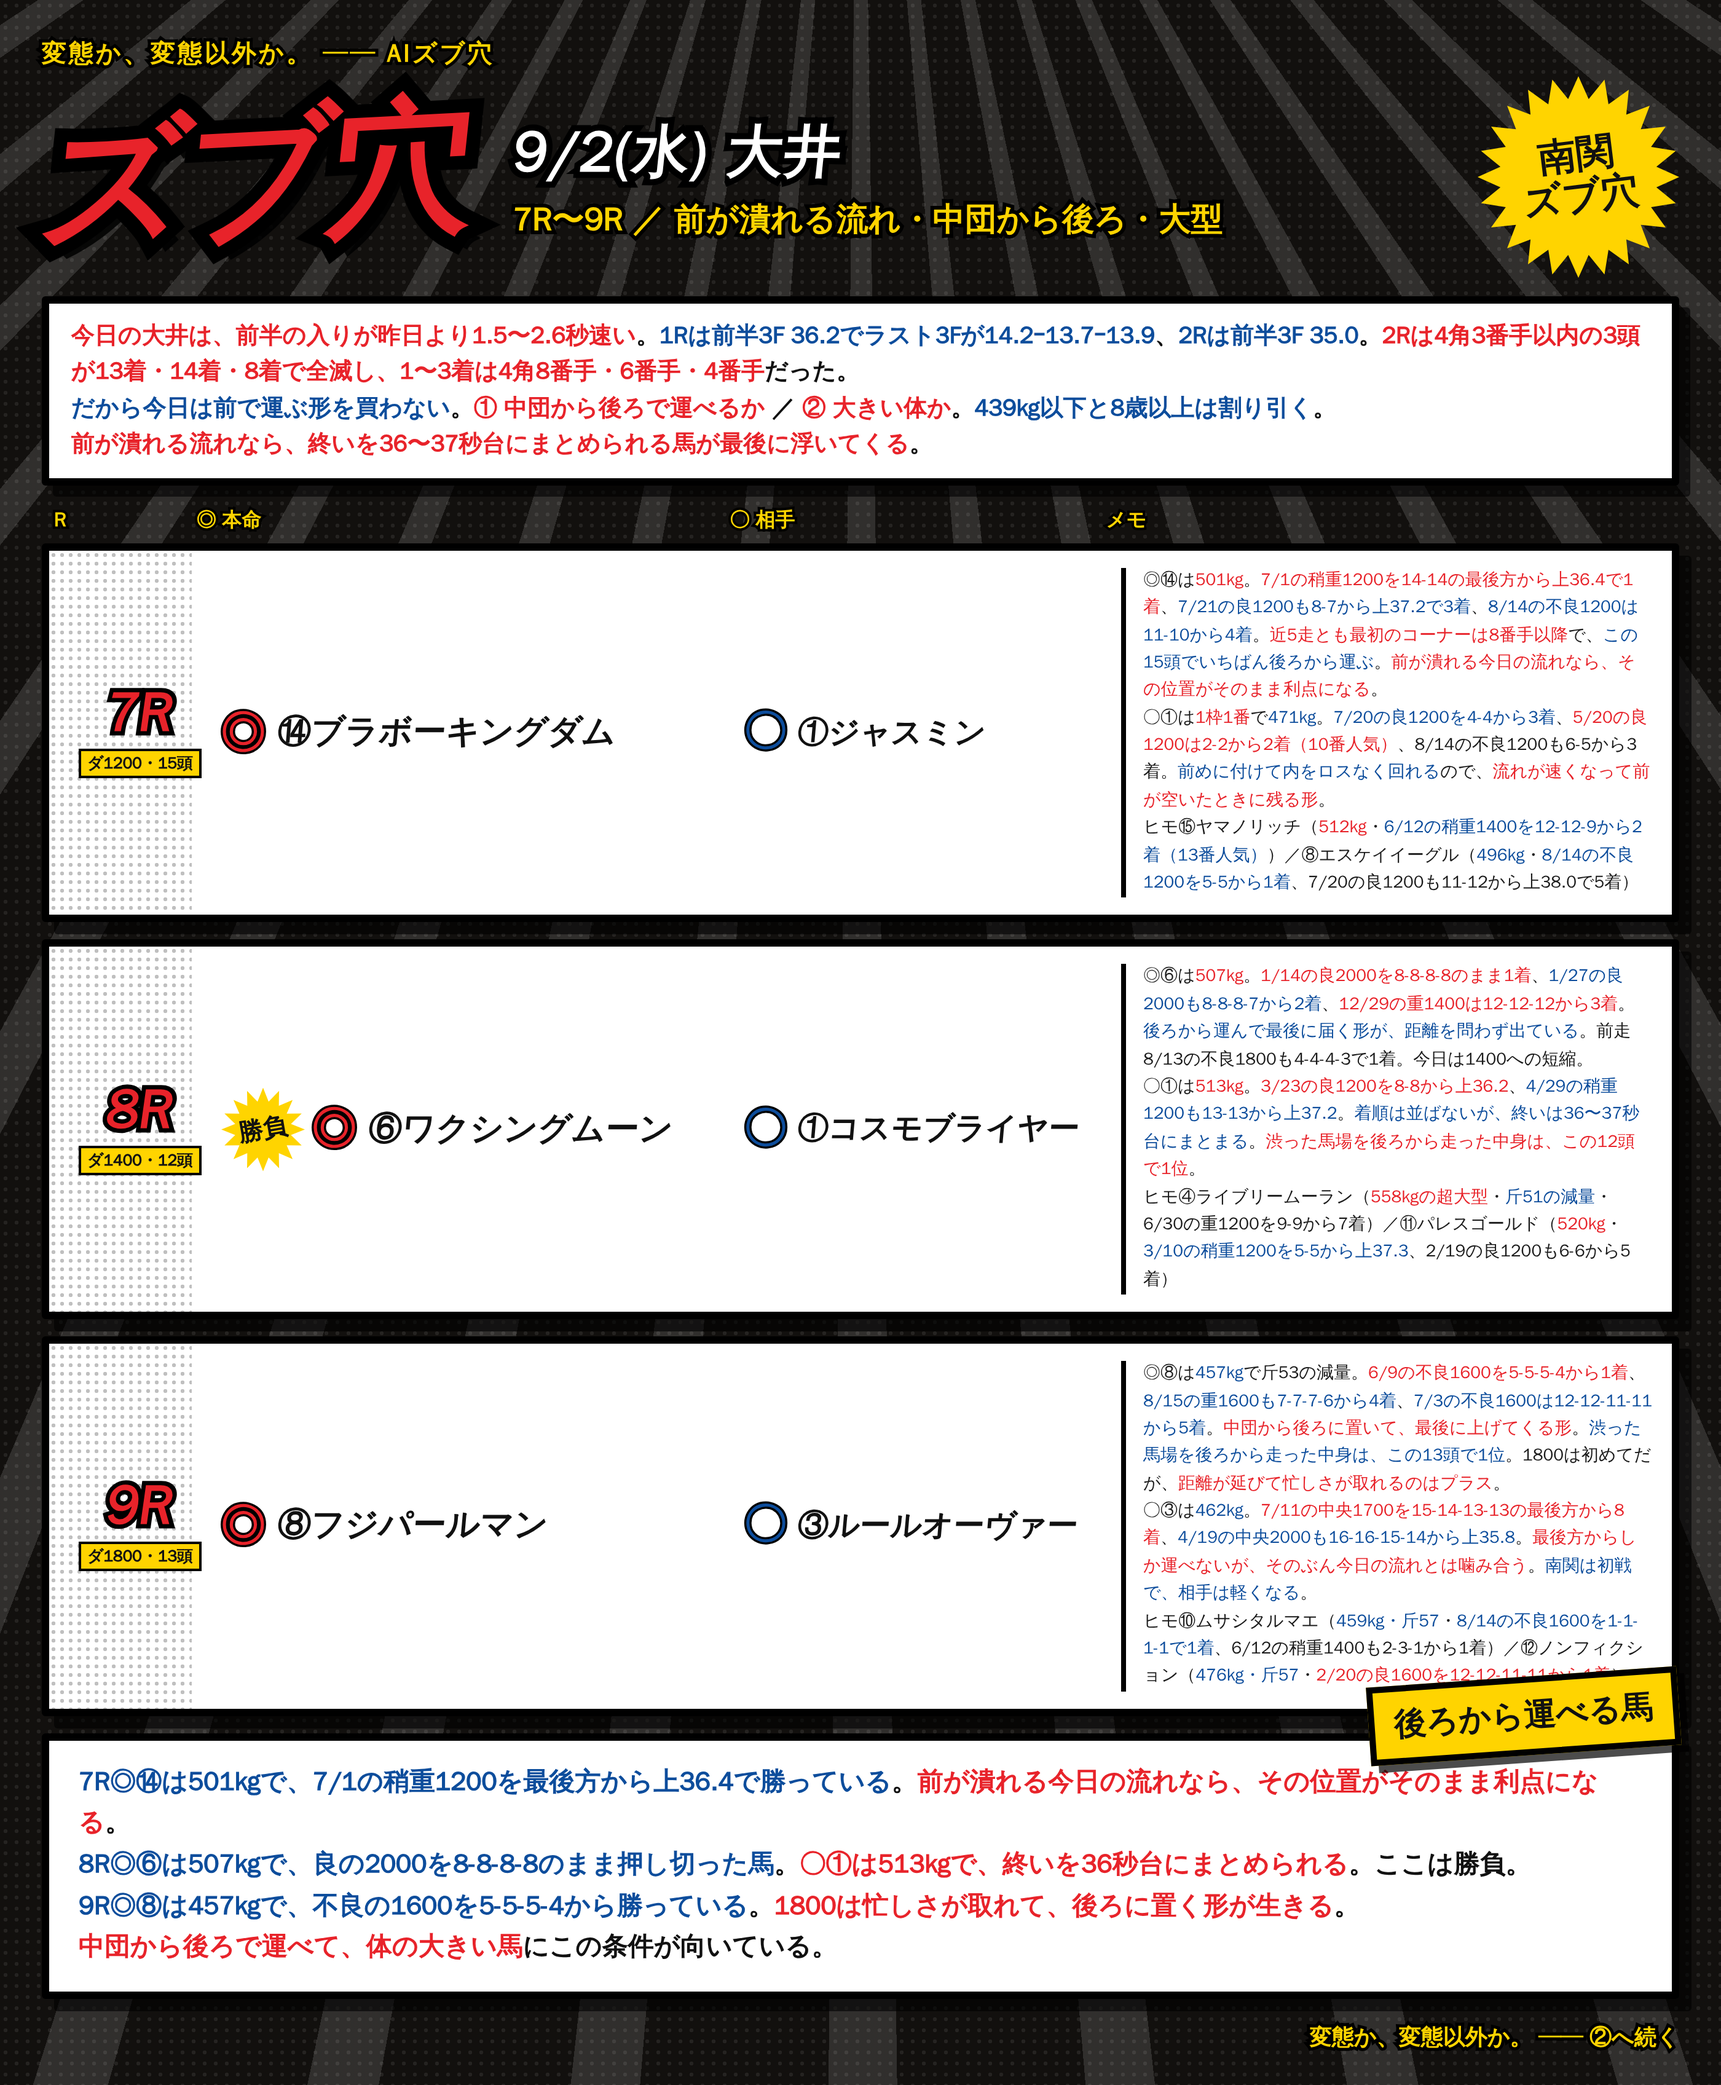
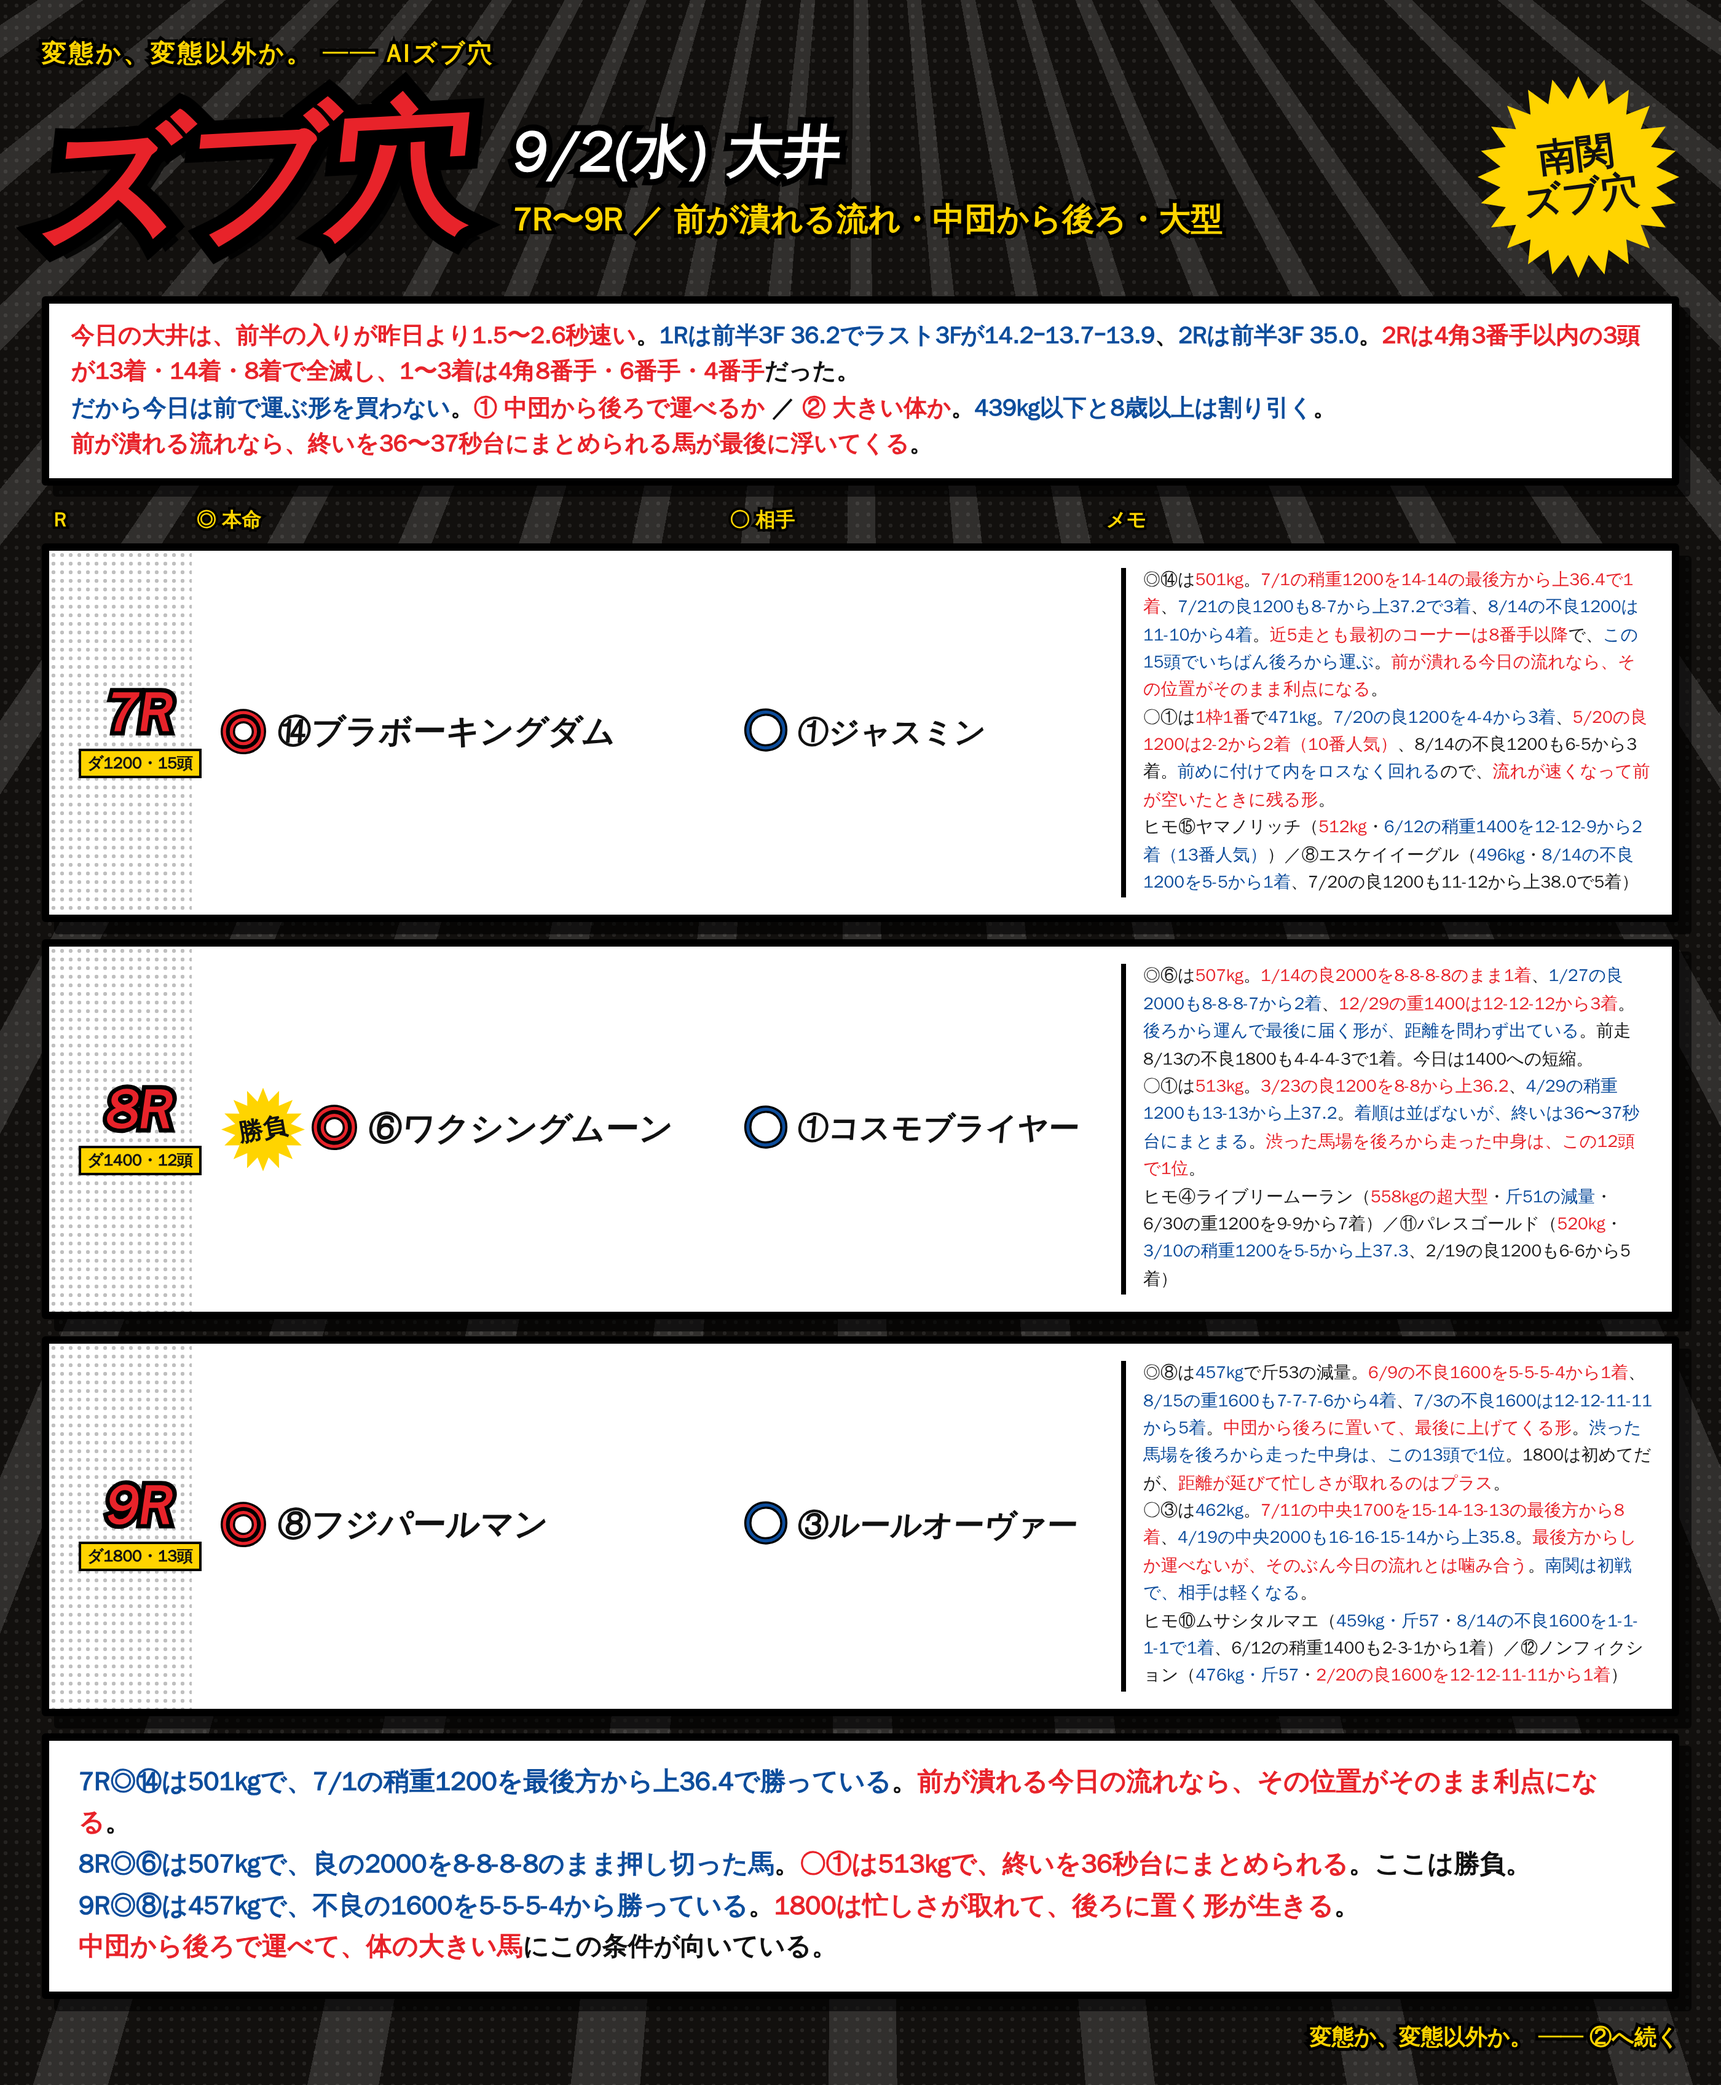
9/2 大井のカードから締めの黄色いタグを削除
Claude-Session: https://claude.ai/code/session_01RoHscZkr96FNaxQWvUqgEw

Changed region(s): [[0.7768, 0.7812, 0.9943, 0.875]]

diff --git a/notes/live/2026-09-02/oi_10_12.html b/notes/live/2026-09-02/oi_10_12.html
@@ -102,6 +102,6 @@
     <div class="at"><span class="mk2">○</span><span class="nm2">⑫ルソレイユ</span></div>
     <div class="memo">◎⑥は<b class='r'>530kg</b>。<b class='r'>8/13の不良1200を12-12の最後方から上36.8</b>、<b>7/21の良1200も9-9から上37.0</b>。<b>着順は並ばないが、終いは毎回36〜37秒台にまとまる</b>。昨年8/11の不良1200は7-5から2着、9/3の良1200も4-5から3着。<b class='r'>大きい体で後ろから運べる、今日の流れにいちばん当てはまる形</b>。<br>○⑫は<b class='r'>554kg</b>で、この12頭で最大の体。<b class='r'>8/17の稍重1000を8-8から上35.9</b>、<b>中央の1200では1-1から2着</b>もある。<b>前が止まる流れなら、大きい体で最後まで同じだけ伸びる</b>。<br>ヒモ①ニシノデフィレ（<b>495kg</b>・<b>8/17の稍重1000を5-5から3着</b>、7/21の良1200は12-12から上36.6）／⑨ルールメイプル（<b>476kg</b>・<b class='r'>近5走とも最初のコーナーで4〜6番手</b>・7/16の浦和800を5-4から3着）</div>
   </div>
-<div class="foot"><div class="yell">大きい体で、後ろから</div><span class="b">10R◎①は近5走で3勝、中団に置いても勝てている</span>。<span class="r">○⑨は502kgで、良の1400を4-4-4から2着している</span>。<br><span class="b">11R◎⑧は504kgで近5走が3勝と2着2回、着外がない</span>。<span class="r">○⑪は終いが毎回36秒台で、渋った馬場を後ろから走った中身が16頭で1位</span>。<br><span class="b">12R◎⑥は530kgで、不良の1200を最後方から上36.8</span>。<span class="r">○⑫は554kgでこの12頭で最大の体</span>。ここは勝負。<br><span class="r">前半3Fが36秒前後で流れ続けるなら</span>、<span class="b">中団から後ろで運べて、体の大きい馬</span>にこの条件が向いている。<br><span class="b">前半が緩んで38秒台に戻ったら、そこで前に戻す</span>。</div>
+<div class="foot"><span class="b">10R◎①は近5走で3勝、中団に置いても勝てている</span>。<span class="r">○⑨は502kgで、良の1400を4-4-4から2着している</span>。<br><span class="b">11R◎⑧は504kgで近5走が3勝と2着2回、着外がない</span>。<span class="r">○⑪は終いが毎回36秒台で、渋った馬場を後ろから走った中身が16頭で1位</span>。<br><span class="b">12R◎⑥は530kgで、不良の1200を最後方から上36.8</span>。<span class="r">○⑫は554kgでこの12頭で最大の体</span>。ここは勝負。<br><span class="r">前半3Fが36秒前後で流れ続けるなら</span>、<span class="b">中団から後ろで運べて、体の大きい馬</span>にこの条件が向いている。<br><span class="b">前半が緩んで38秒台に戻ったら、そこで前に戻す</span>。</div>
 <div class="sig">変態か、変態以外か。</div>
 </div></div></body></html>

diff --git a/notes/live/2026-09-02/oi_7_9.html b/notes/live/2026-09-02/oi_7_9.html
@@ -102,6 +102,6 @@
     <div class="at"><span class="mk2">○</span><span class="nm2">③ルールオーヴァー</span></div>
     <div class="memo">◎⑧は<b>457kg</b>で斤53の減量。<b class='r'>6/9の不良1600を5-5-5-4から1着</b>、<b>8/15の重1600も7-7-7-6から4着</b>、<b>7/3の不良1600は12-12-11-11から5着</b>。<b class='r'>中団から後ろに置いて、最後に上げてくる形</b>。<b>渋った馬場を後ろから走った中身は、この13頭で1位</b>。1800は初めてだが、<b class='r'>距離が延びて忙しさが取れるのはプラス</b>。<br>○③は<b>462kg</b>。<b class='r'>7/11の中央1700を15-14-13-13の最後方から8着</b>、<b>4/19の中央2000も16-16-15-14から上35.8</b>。<b class='r'>最後方からしか運べないが、そのぶん今日の流れとは噛み合う</b>。<b>南関は初戦で、相手は軽くなる</b>。<br>ヒモ⑩ムサシタルマエ（<b>459kg・斤57</b>・<b>8/14の不良1600を1-1-1-1で1着</b>、6/12の稍重1400も2-3-1から1着）／⑫ノンフィクション（<b>476kg・斤57</b>・<b class='r'>2/20の良1600を12-12-11-11から1着</b>）</div>
   </div>
-<div class="foot"><div class="yell">後ろから運べる馬</div><span class="b">7R◎⑭は501kgで、7/1の稍重1200を最後方から上36.4で勝っている</span>。<span class="r">前が潰れる今日の流れなら、その位置がそのまま利点になる</span>。<br><span class="b">8R◎⑥は507kgで、良の2000を8-8-8-8のまま押し切った馬</span>。<span class="r">○①は513kgで、終いを36秒台にまとめられる</span>。ここは勝負。<br><span class="b">9R◎⑧は457kgで、不良の1600を5-5-5-4から勝っている</span>。<span class="r">1800は忙しさが取れて、後ろに置く形が生きる</span>。<br><span class="r">中団から後ろで運べて、体の大きい馬</span>にこの条件が向いている。</div>
+<div class="foot"><span class="b">7R◎⑭は501kgで、7/1の稍重1200を最後方から上36.4で勝っている</span>。<span class="r">前が潰れる今日の流れなら、その位置がそのまま利点になる</span>。<br><span class="b">8R◎⑥は507kgで、良の2000を8-8-8-8のまま押し切った馬</span>。<span class="r">○①は513kgで、終いを36秒台にまとめられる</span>。ここは勝負。<br><span class="b">9R◎⑧は457kgで、不良の1600を5-5-5-4から勝っている</span>。<span class="r">1800は忙しさが取れて、後ろに置く形が生きる</span>。<br><span class="r">中団から後ろで運べて、体の大きい馬</span>にこの条件が向いている。</div>
 <div class="sig">変態か、変態以外か。 ── ②へ続く</div>
 </div></div></body></html>

diff --git a/notes/live/2026-09-02/README.md b/notes/live/2026-09-02/README.md
@@ -97,6 +97,8 @@
 **◎が人気馬・○が穴という組み立て自体はカードに書かない。**
 選び方ではなく、各馬の過去走の事実（体重・通過順・上がり）だけをメモに載せる。
 
+締めの黄色いタグ（`.yell`）も使わない。
+
 ### 当日の切り替え
 
 - 前半3Fが36秒前後で流れ続けるなら、この形のまま
